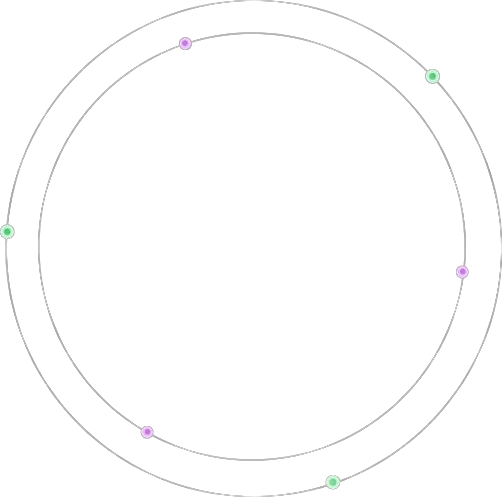
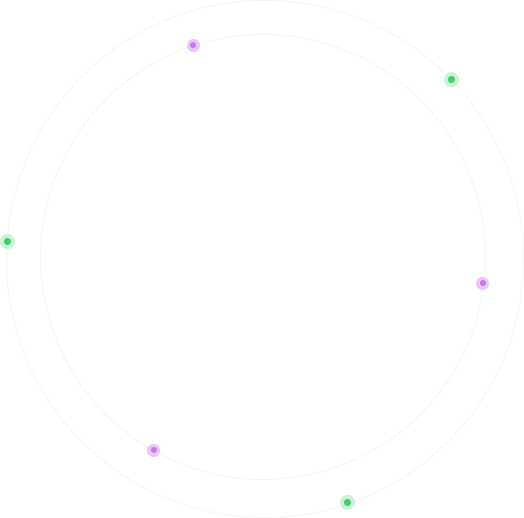
about finished

diff --git a/src/About.js b/src/About.js
@@ -46,8 +46,8 @@ const About = () => {
                     <p>At AJ INFOTECK, we harness our expertise and extensive experience to craft technologies that make a tangible impact on the present and shape a brighter future. Our commitment to excellence, unwavering integrity in fulfilling promises, and ever-expanding reservoir of knowledge form the bedrock of every project we undertake.</p>
                 </div>
                 <div className="col-12 col-md-6" id="parent">
+                    <img src={circle} alt="about-circle" width="300px" height="300px" id="circle" className="m-auto d-block"/>
                     <img src={about1} alt="about-img" width="250px" height="250px" id="img"/>
-                    <img src={circle} alt="about-circle" width="380px" height="380px" id="circle"/>
                 </div>
             </div>
             <div className="row">

diff --git a/src/App.css b/src/App.css
@@ -106,18 +106,20 @@
 }
 .about #parent{
   position: relative;
-  margin: 40px 0px 70px;
+  overflow: hidden;
+  
+}
+#parent img{
+  display: block;
 }
 .about #img{
-  margin-left: 25%;
-  margin-top: 3%;
-  border-radius: 50px;
-}
-.about #circle{
   position: absolute;
-  top: -20%;
-  left: 17%;
+  top: 10%;
+  left: calc(50% - 125px);
   z-index: -1;
+
+}
+.about #circle{ 
   animation: rotate 20s linear infinite;
 }
 
